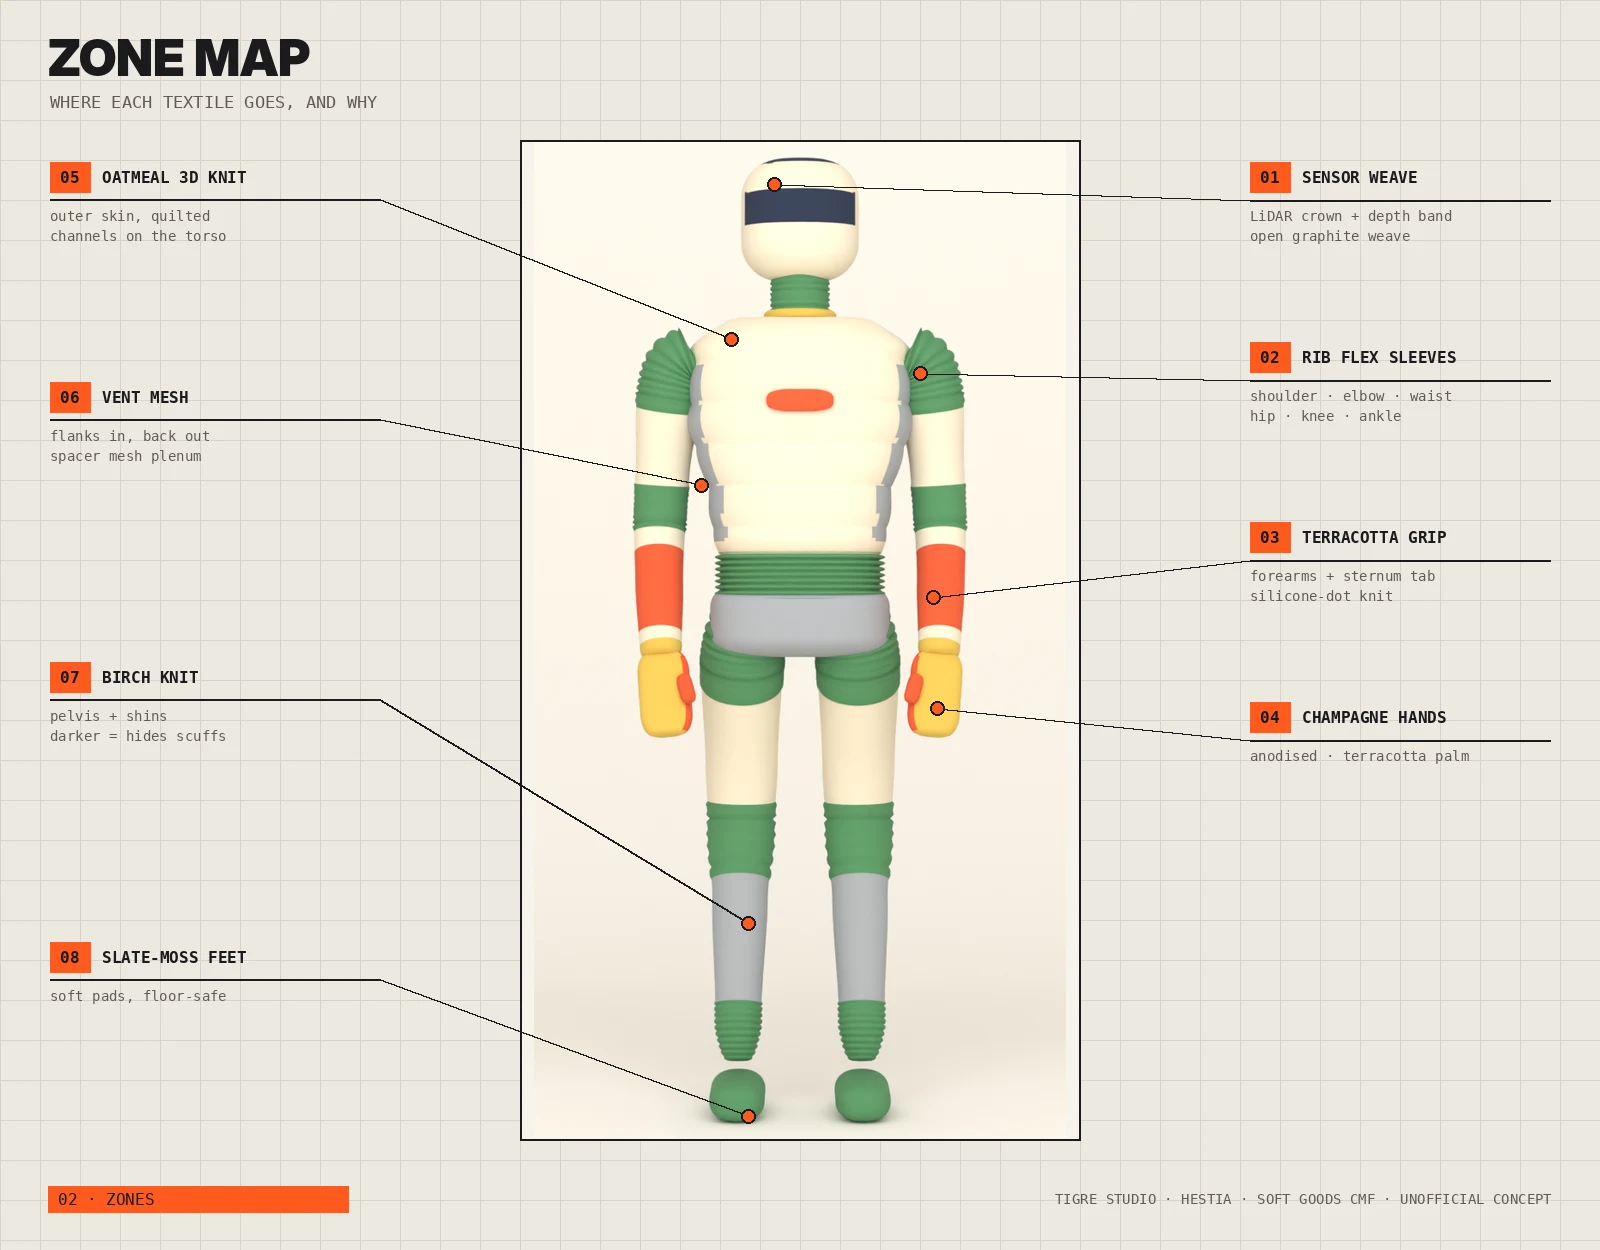
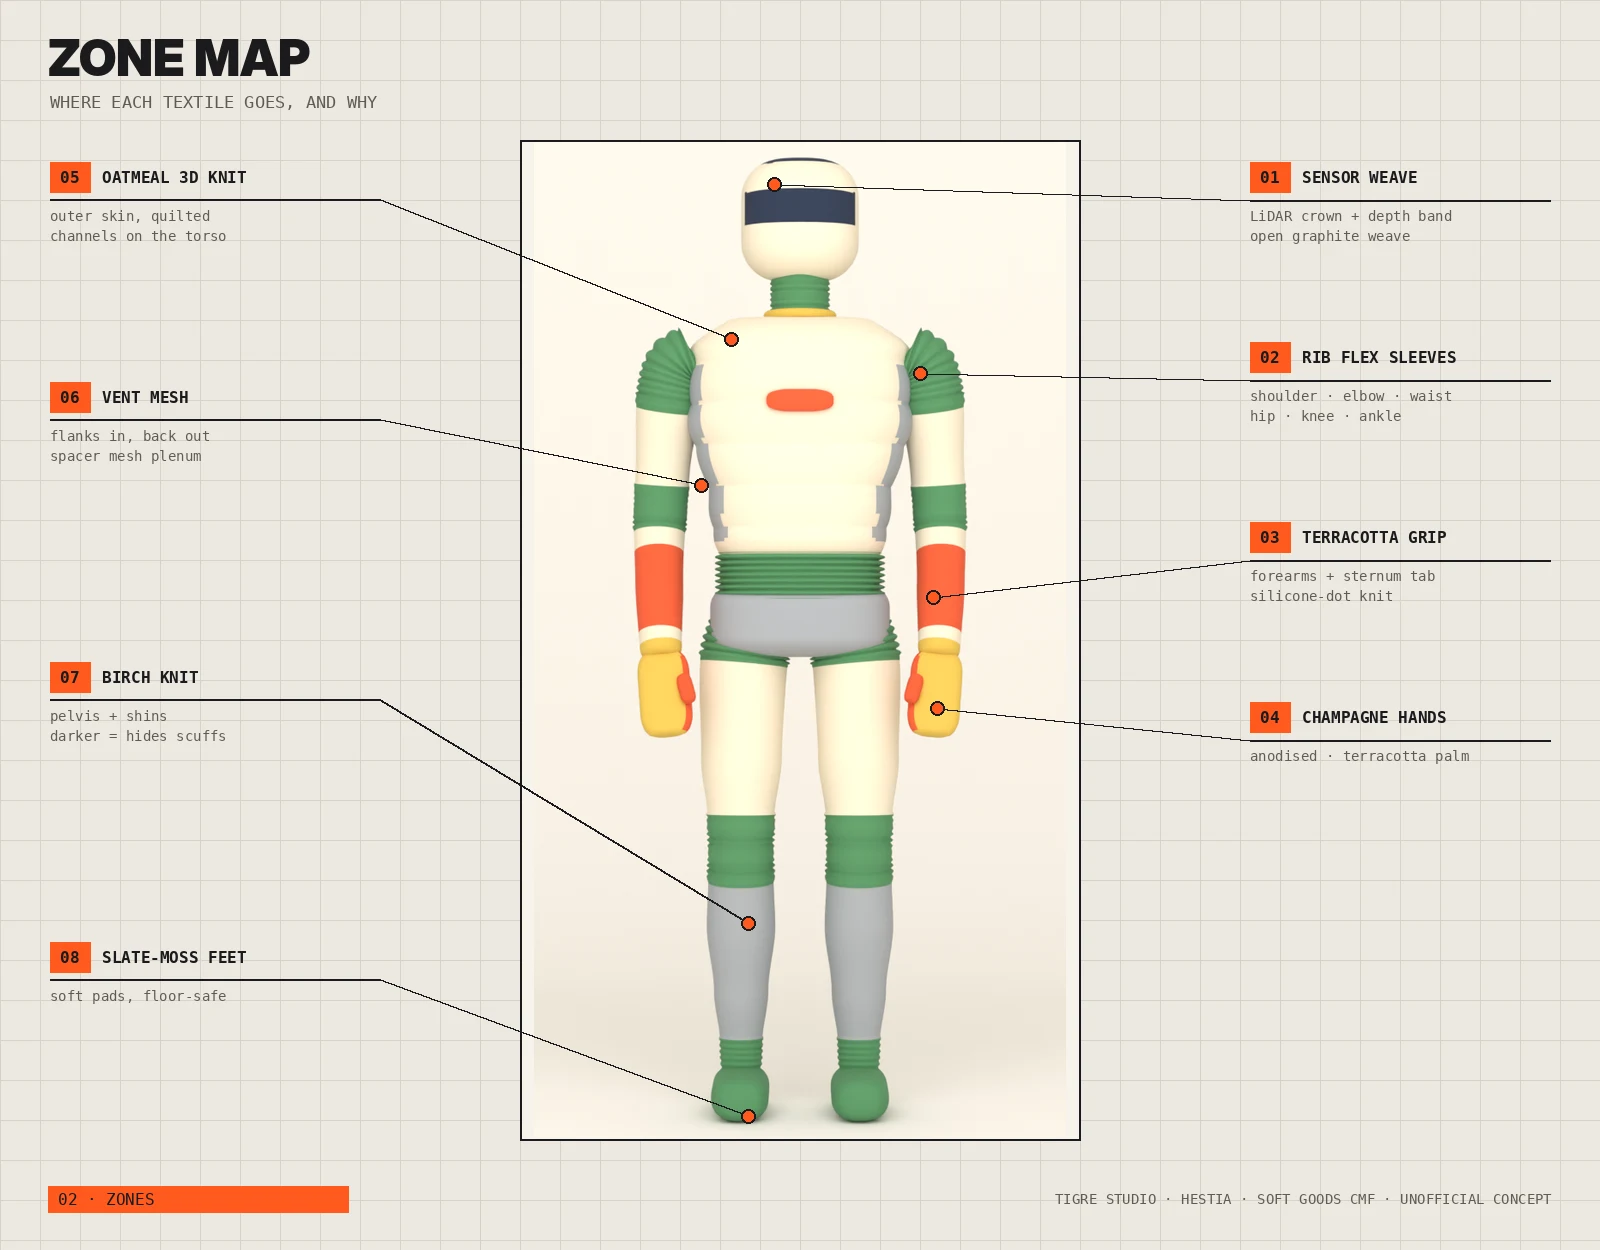
HESTIA: legs now end inside the feet (no ankle gap); re-rendered hero, back, living, zone map, exploded, Knit Nodes hero + reveal
Claude-Session: https://claude.ai/code/session_01TNyScxA4ueG31KUfSXNFLU

Changed region(s): [[0.4375, 0.6864, 0.5625, 0.8736], [0.4375, 0.4992, 0.5625, 0.5928], [0.4375, 0.624, 0.5625, 0.6552]]

diff --git a/tools/hestia_render.py b/tools/hestia_render.py
@@ -327,13 +327,13 @@ def robot(off=(0, 0, 0), explode=0.0):
         x = 0.105 * sgn; e = np.array((sgn * explode, 0, 0))
         # humanoid leg: hip, full thigh, defined knee slightly forward, calf, slim ankle
         ctrl = [o + e + (x * 0.8, 0.0, 0.9), o + e + (x * 0.98, 0.0, 0.82), o + e + (x * 1.02, -0.012, 0.66), o + e + (x * 1.03, -0.02, 0.49),
-                o + e + (x * 1.03, -0.005, 0.32), o + e + (x * 1.03, 0.005, 0.15), o + e + (x * 1.03, 0.0, 0.085)]
+                o + e + (x * 1.03, -0.005, 0.32), o + e + (x * 1.03, 0.005, 0.15), o + e + (x * 1.03, 0.0, 0.045)]   # ends inside the foot: no gap at the ankle
         prof = lambda t: lerpk(t, [(0, 0.074), (0.1, 0.08), (0.3, 0.074), (0.44, 0.06), (0.5, 0.058), (0.56, 0.06), (0.66, 0.063), (0.8, 0.05), (0.92, 0.038), (1, 0.034)]) * rounded(t, 0.03, 0.6)
         zones = [(0, 0.1, 'moss', True), (0.1, 0.42, 'oat', False), (0.42, 0.56, 'moss', True), (0.56, 0.9, 'birch', False), (0.9, 1, 'moss', True)]
         parts.append(tube('leg%d' % sgn, ctrl, prof, zones, ring=40, n=200, rib=(0.0115, 0.13)))
         # foot: soft rounded pad, champagne heel tab
-        f0 = o + e + (x * 1.03, 0.06, 0.035); f1 = o + e + (x * 1.03, -0.17, 0.035)
-        parts.append(tube('foot%d' % sgn, [f0, (f0 + f1) / 2, f1], lambda t: (0.05 * rounded(t, 0.25, 0.4), 0.035 * rounded(t, 0.2, 0.5)),
+        f0 = o + e + (x * 1.03, 0.06, 0.04); f1 = o + e + (x * 1.03, -0.17, 0.04)
+        parts.append(tube('foot%d' % sgn, [f0, (f0 + f1) / 2, f1], lambda t: (0.052 * rounded(t, 0.25, 0.4), 0.04 * rounded(t, 0.2, 0.5)),
                           [(0, 1, 'moss', False)], ring=40, n=40, ref=(1, 0, 0), expo=2.4,
                           rule=lambda c, n: 'champ' if (n[1] > 0.7 and c[2] > 0.03) else None))
     # arms
